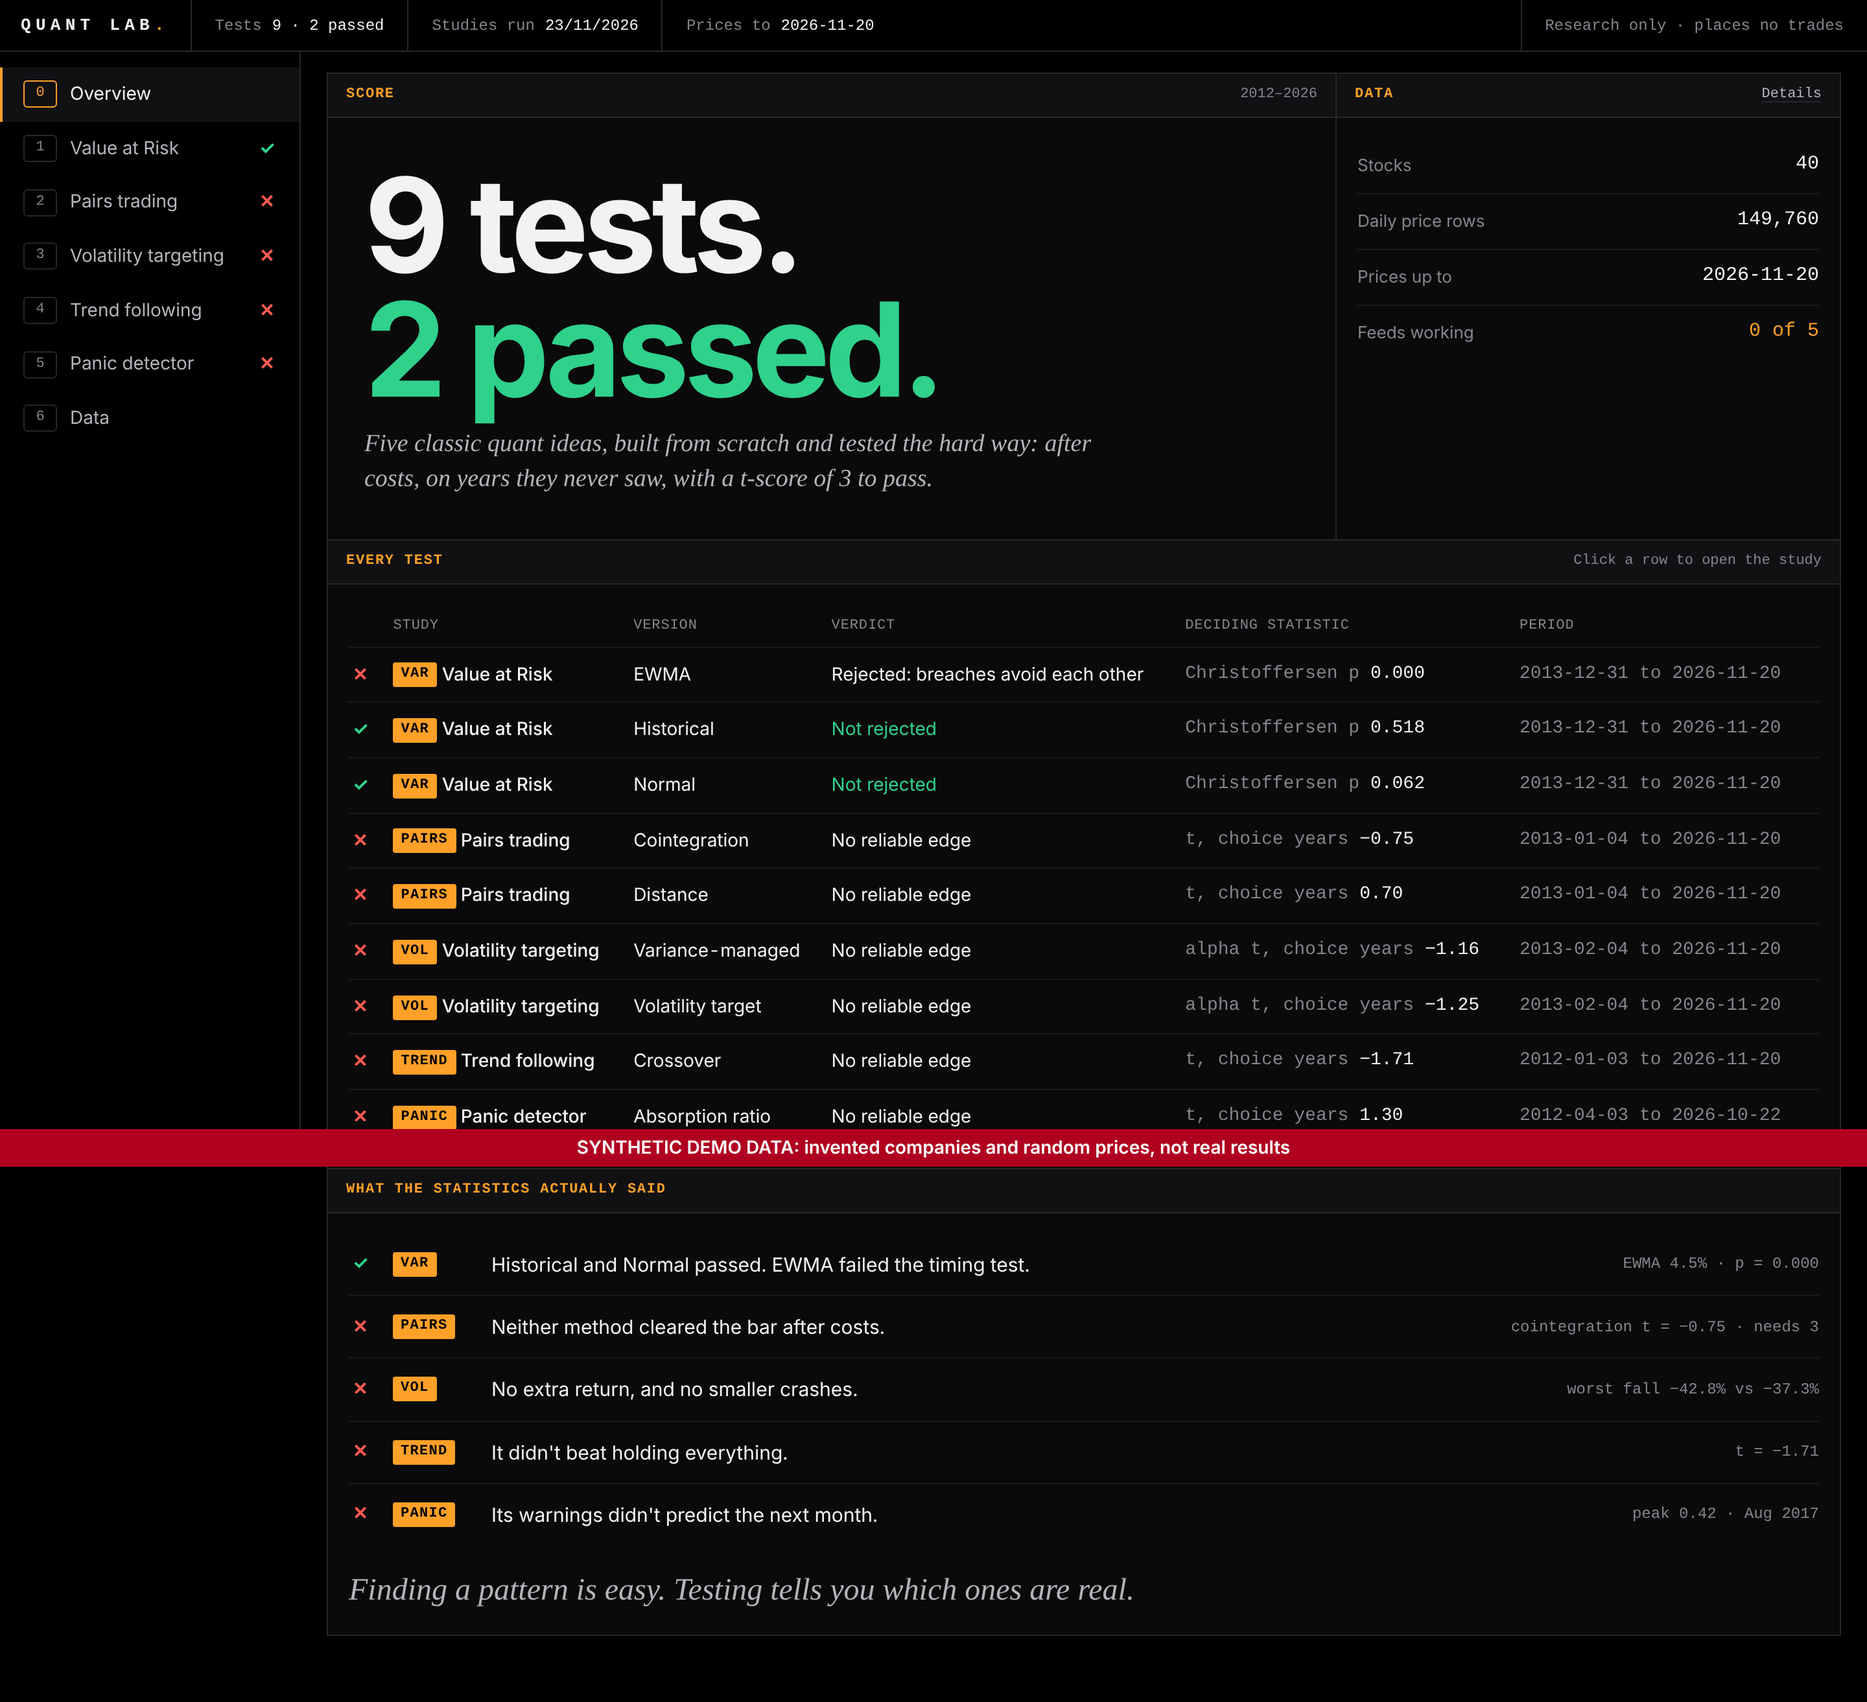
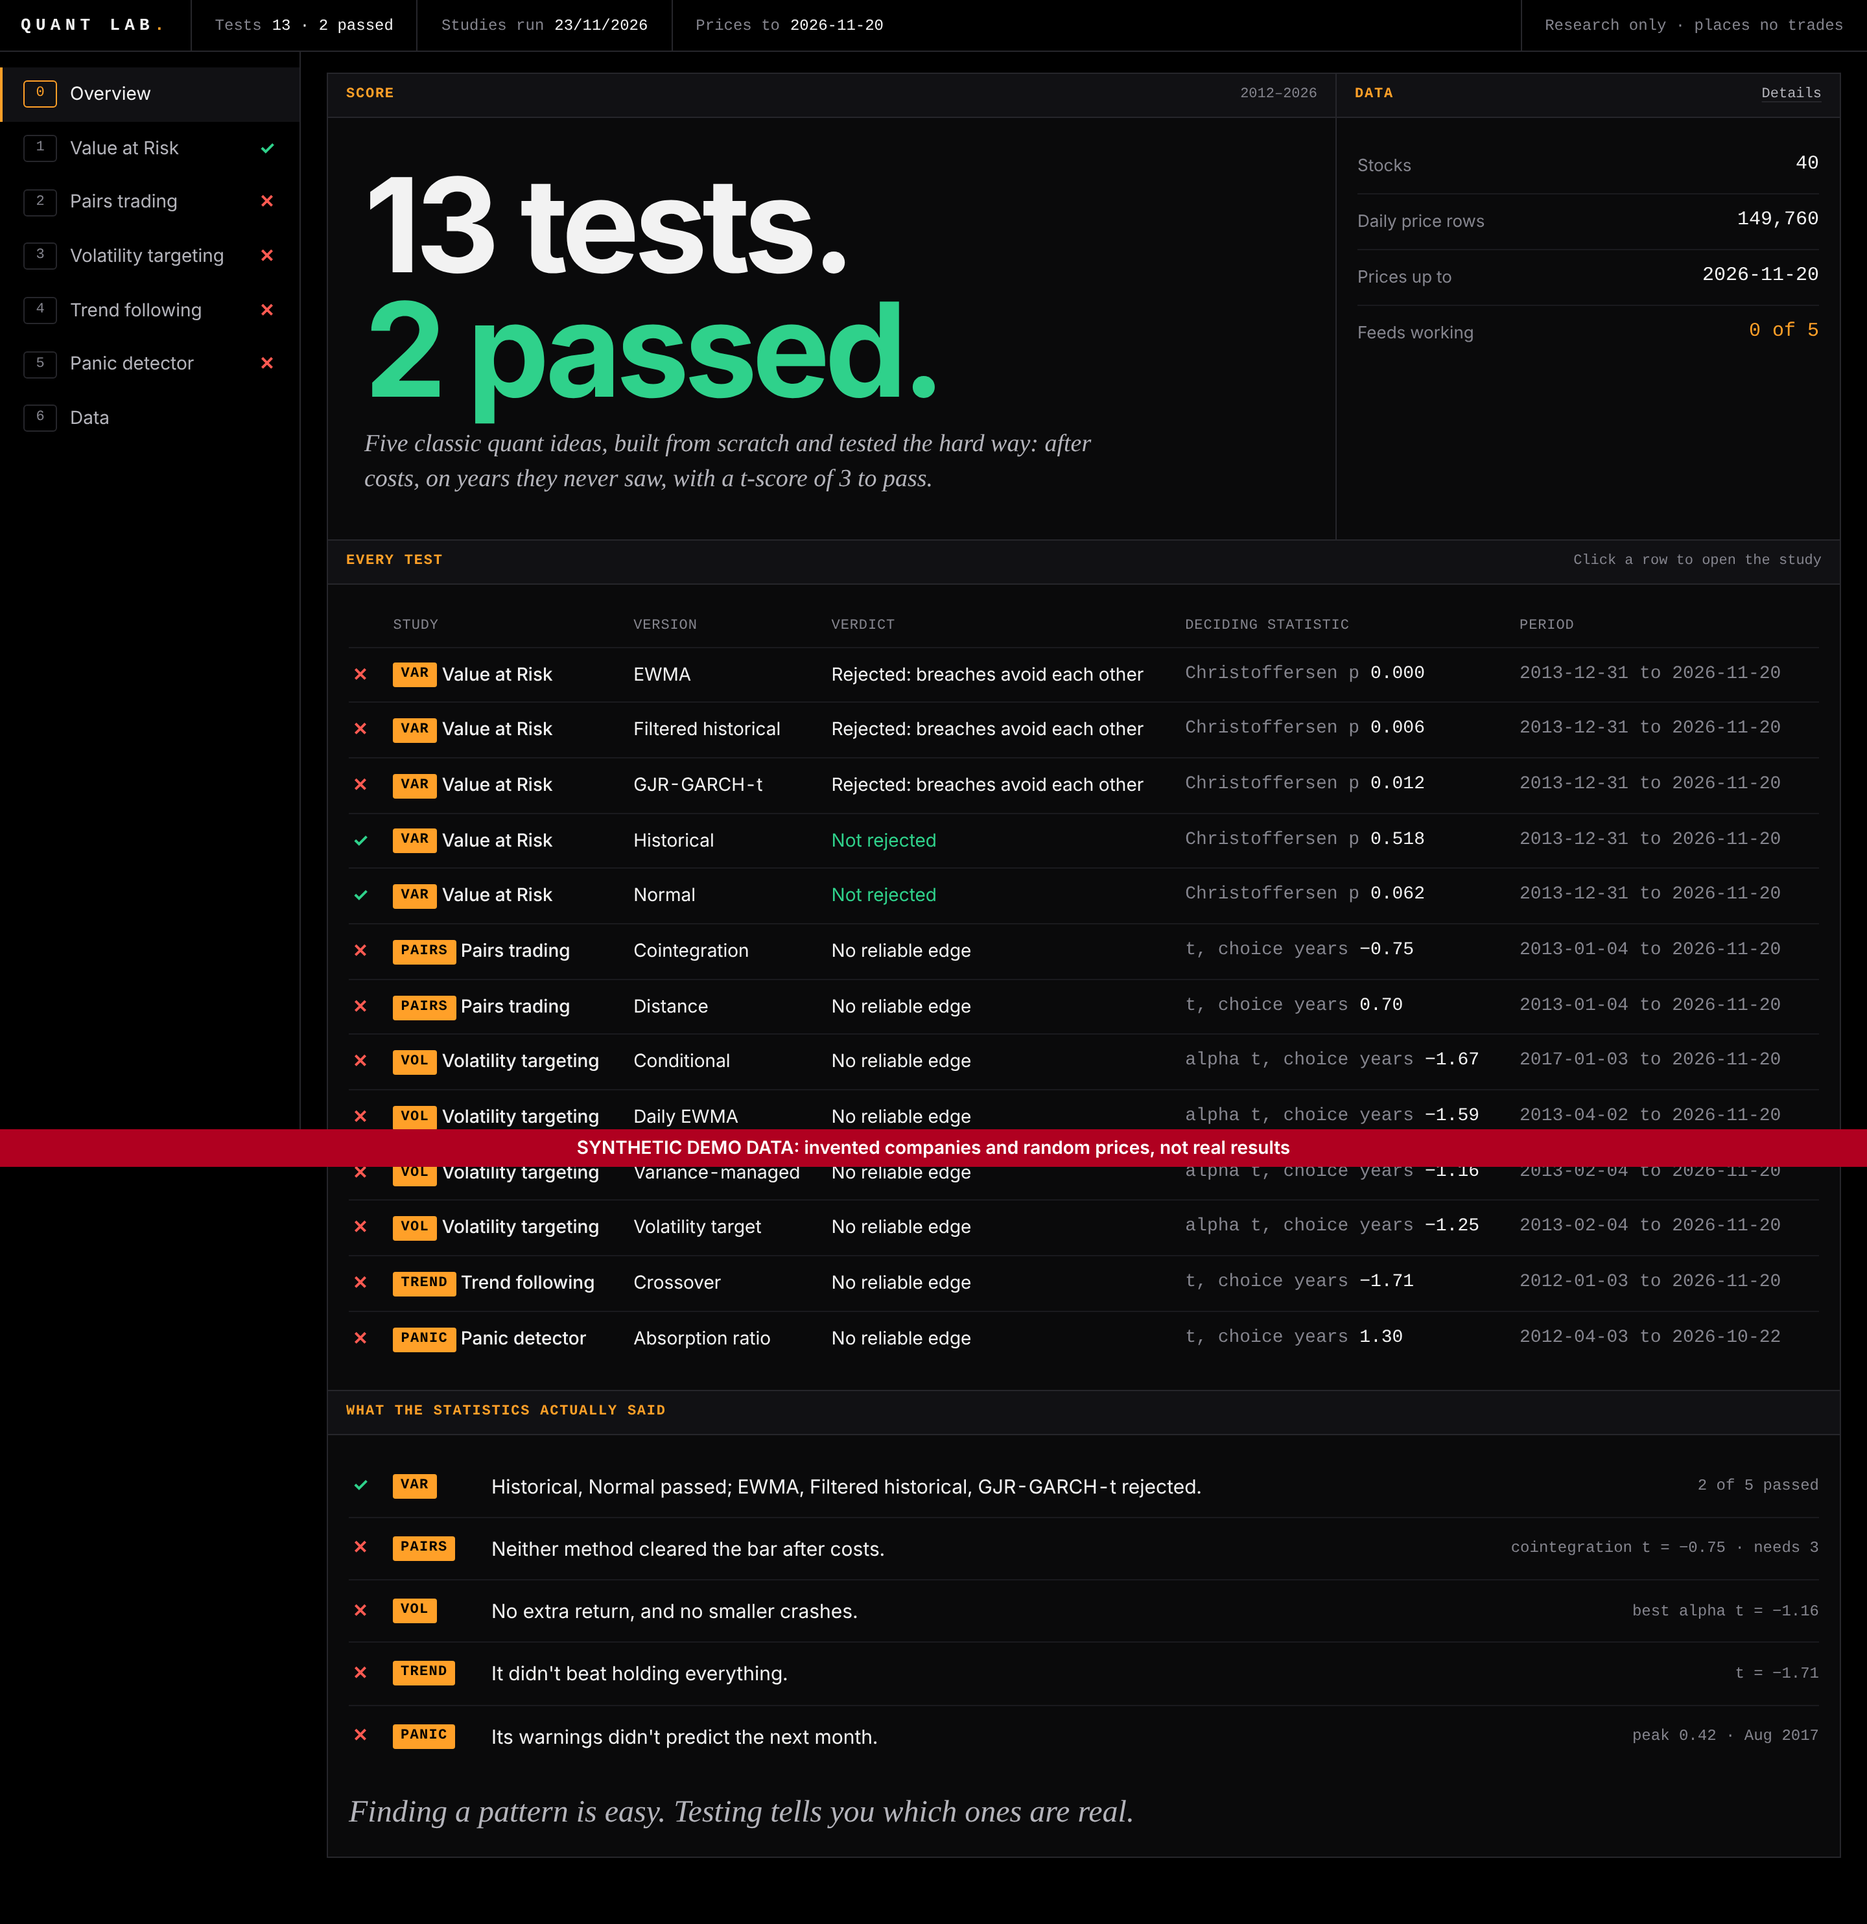
Show the new volatility versions fairly and record their real results
Each volatility version is now ranked and compared against holding the market over its own
years, since warm-ups differ. The write-up and README carry the real results of the four new
versions, with sources on screen.

Claude-Session: https://claude.ai/code/session_01WmkFqFusinndFxNDzseVKi

diff --git a/frontend/src/studies.tsx b/frontend/src/studies.tsx
@@ -37,6 +37,8 @@ export const STUDIES: StudyInfo[] = [
     sources: [
       ["Kupiec (1995), Christoffersen (1998)", "https://it.mathworks.com/help/risk/overview-of-var-backtesting.html"],
       ["RiskMetrics decay 0.94", "https://metricgate.com/docs/ewma-volatility-riskmetrics/"],
+      ["Hull & White (1998)", "https://ideas.repec.org/a/rsk/journ4/2161156.html"],
+      ["Filtered historical simulation review (Bank of England)", "https://www.bankofengland.co.uk/-/media/boe/files/working-paper/2015/filtered-historical-simulation-value-at-risk-models-and-their-competitors.pdf"],
     ],
   },
   {
@@ -55,13 +57,16 @@ export const STUDIES: StudyInfo[] = [
     code: "VOL",
     title: "Volatility targeting",
     tagline: "Hold less when markets are jumpy. Does the risk-adjusted return improve?",
-    tags: ["Stats · realised variance", "Test · alpha, Newey-West"],
+    tags: ["Stats · realised variance, EWMA", "Test · alpha, Newey-West"],
     sources: [
       ["Moreira & Muir (2017)", "https://www.nber.org/papers/w22208"],
       [
         "DeMiguel et al. (2024)",
         "https://lbsresearch.london.edu/id/eprint/3716/1/The%20Journal%20of%20Finance%20-%202024%20-%20DeMIGUEL%20-%20A%20Multifactor%20Perspective%20on%20Volatility%E2%80%90Managed%20Portfolios.pdf",
       ],
+      ["Bongaerts, Kang & van Dijk (2020)", "https://ideas.repec.org/a/taf/ufajxx/v76y2020i4p54-71.html"],
+      ["Harvey et al. (2018)", "https://people.duke.edu/~charvey/Research/Published_Papers/P135_The_impact_of.pdf"],
+      ["Cederburg et al. (2020)", "https://www.lehigh.edu/~xuy219/research/COWY.pdf"],
     ],
   },
   {
@@ -230,19 +235,26 @@ export function view(key: string, rows: Result[]): View | null {
   if (key === "vol_targeting") {
     const managed = VOL_VARIANTS.map((v) => find(rows, v)).filter(Boolean) as Result[];
     const first = managed[0];
-    const bestSharpe = [...managed].sort((x, y) => (strategy(y)?.sharpe ?? -Infinity) - (strategy(x)?.sharpe ?? -Infinity))[0];
-    const shallowest = [...managed].sort((x, y) => (strategy(y)?.max_drawdown ?? -Infinity) - (strategy(x)?.max_drawdown ?? -Infinity))[0];
+    // Versions start on different dates, so each is ranked by its gain over holding the market
+    // during its own years, never by its raw level.
+    const gain = (r: Result, key: "sharpe" | "max_drawdown") => {
+      const a = strategy(r)?.[key];
+      const c = baseline(r)?.[key];
+      return typeof a === "number" && typeof c === "number" ? a - c : -Infinity;
+    };
+    const bestSharpe = [...managed].sort((x, y) => gain(y, "sharpe") - gain(x, "sharpe"))[0];
+    const shallowest = [...managed].sort((x, y) => gain(y, "max_drawdown") - gain(x, "max_drawdown"))[0];
     const bestT = [...managed].sort((x, y) => ((y.metrics.choice_t as number) ?? -Infinity) - ((x.metrics.choice_t as number) ?? -Infinity))[0];
     return {
       tiles: [
         {
           value: `${fixed(strategy(bestSharpe)?.sharpe)} vs ${fixed(baseline(bestSharpe)?.sharpe)}`,
-          label: `best Sharpe ratio: ${bestSharpe ? NAMES[bestSharpe.variant] : NOT_VERIFIED} vs unmanaged`,
+          label: `Sharpe ratio, biggest gain: ${bestSharpe ? NAMES[bestSharpe.variant] : NOT_VERIFIED} vs holding, same years`,
           tone: "blue",
         },
         {
           value: `${pct(strategy(shallowest)?.max_drawdown)} vs ${pct(baseline(shallowest)?.max_drawdown)}`,
-          label: `smallest worst fall: ${shallowest ? NAMES[shallowest.variant] : NOT_VERIFIED} vs unmanaged`,
+          label: `worst fall, biggest cut: ${shallowest ? NAMES[shallowest.variant] : NOT_VERIFIED} vs holding, same years`,
           tone: shallower(shallowest) ? "green" : "red",
         },
         {

diff --git a/frontend/src/explain.tsx b/frontend/src/explain.tsx
@@ -236,7 +236,6 @@ function volTargeting(rows: Result[]): Both {
     ["Conditional", find(rows, "conditional (Bongaerts et al.)")],
     ["Daily EWMA", find(rows, "daily EWMA (Harvey et al.)")],
   ].filter(([, r]) => r) as [string, Result][];
-  const base = versions[0]?.[1];
   const smaller = versions.filter(([, r]) => lower(b(r)?.max_drawdown, s(r)?.max_drawdown)).map(([n]) => n);
   const best = [...versions].sort(([, x], [, y]) => ((m(y, "choice_t") as number) ?? -Infinity) - ((m(x, "choice_t") as number) ?? -Infinity))[0];
   return {
@@ -253,8 +252,7 @@ function volTargeting(rows: Result[]): Both {
           <li><strong>Daily EWMA:</strong> resize every day, giving the most recent days the most weight, so it reacts within days rather than weeks.</li>
         </ul>
         <p>
-          Just holding the market scored {fixed(b(base)?.sharpe)} for return per unit of risk, with a worst fall of{" "}
-          {pct(b(base)?.max_drawdown)}.{" "}
+          Each is compared with just holding the market over the same years.{" "}
           {smaller.length
             ? `${smaller.join(", ")} cut the worst fall.`
             : "None of them cut the worst fall."}{" "}
@@ -284,23 +282,25 @@ function volTargeting(rows: Result[]): Both {
           Test (Moreira & Muir): regress fᵗᵐ = α + β·f + ε, Newey-West t on α. A higher Sharpe alone isn't the test; α is.
         </p>
         <Table
-          head={["Version", "Sharpe ± SE", "Max drawdown", "α t (choice)", "t (hold-out)", "Avg exposure", "Max exposure"]}
-          rows={versions
-            .map(([n, x]) => [
-              n,
-              `${fixed(s(x)?.sharpe)} ± ${fixed(s(x)?.sharpe_se)}`,
-              pct(s(x)?.max_drawdown),
-              fixed(m(x, "choice_t")),
-              fixed(m(x, "holdout_t")),
-              `${fixed(m(x, "average_exposure"))}×`,
-              `${fixed(m(x, "max_exposure"))}×`,
-            ])
-            .concat(base ? [["Unmanaged", `${fixed(b(base)?.sharpe)} ± ${fixed(b(base)?.sharpe_se)}`, pct(b(base)?.max_drawdown), "—", "—", "1.00×", "1.00×"]] : [])}
+          head={["Version", "From", "Sharpe ± SE", "Holding, same years", "Max drawdown", "Holding, same years", "α t (choice)", "t (hold-out)", "Avg / max exposure"]}
+          rows={versions.map(([n, x]) => [
+            n,
+            x.period.slice(0, 4),
+            `${fixed(s(x)?.sharpe)} ± ${fixed(s(x)?.sharpe_se)}`,
+            fixed(b(x)?.sharpe),
+            pct(s(x)?.max_drawdown),
+            pct(b(x)?.max_drawdown),
+            fixed(m(x, "choice_t")),
+            fixed(m(x, "holdout_t")),
+            `${fixed(m(x, "average_exposure"))}× / ${fixed(m(x, "max_exposure"))}×`,
+          ])}
         />
         <p>
-          Reading: drawdown cuts are close to mechanical, because volatility persists and exposure is already low when a
-          sell-off deepens. α needs more: average returns must not rise in step with variance. Periods differ slightly by
-          version, because each needs its own warm-up.
+          {smaller.length
+            ? "Reading: drawdown cuts are close to mechanical, because volatility persists and exposure is already low when a sell-off deepens. "
+            : "Reading: "}
+          α needs more: average returns must not rise in step with variance. Each version is compared with holding over its
+          own years, because each needs a different warm-up.
         </p>
       </>
     ),

diff --git a/docs/QUANT.md b/docs/QUANT.md
@@ -51,6 +51,30 @@ rate ([Moreira & Muir, 2017](https://www.nber.org/papers/w22208)).
 ([DeMiguel et al., 2024](https://lbsresearch.london.edu/id/eprint/3716/1/The%20Journal%20of%20Finance%20-%202024%20-%20DeMIGUEL%20-%20A%20Multifactor%20Perspective%20on%20Volatility%E2%80%90Managed%20Portfolios.pdf)).
 It did cut the worst fall by about 12 points.
 
+**Two improved versions (added 23 November 2026).** Each follows a published method with its
+settings fixed before running, and each counts as a new test under the same rule:
+
+- **Conditional targeting** ([Bongaerts, Kang & van Dijk, 2020](https://ideas.repec.org/a/taf/ufajxx/v76y2020i4p54-71.html)):
+  resize only when last month's volatility is in the top or bottom fifth of all earlier
+  months; otherwise hold the market. The paper asks for 10 years of history; with 16 years of
+  data, 5 years is used, so this version starts in 2015.
+- **Daily EWMA targeting** ([Harvey et al., 2018](https://people.duke.edu/~charvey/Research/Published_Papers/P135_The_impact_of.pdf)):
+  volatility from daily returns with a 20-day half-life, rebalanced daily. Our change: the
+  paper sets its scale on the whole sample, which uses hindsight; here the target is the
+  average of past volatility only, the real-time standard argued for by
+  [Cederburg et al. (2020)](https://www.lehigh.edu/~xuy219/research/COWY.pdf).
+
+| | Conditional (from 2015) | Holding, same years | Daily EWMA (from 2011) | Holding, same years |
+|---|---|---|---|---|
+| Sharpe ratio | 0.84 | 0.85 | 0.96 | 0.93 |
+| Worst fall | −32.4% | −38.8% | −21.8% | −38.8% |
+| Alpha t-score | 0.39 | — | 1.12 | — |
+
+**Neither passes.** Daily EWMA targeting is the strongest version so far: it cut the worst
+fall from −38.8% to −21.8% with a slightly higher Sharpe ratio, but its alpha t-score is 1.12
+against the bar of 3, and its held-back years were slightly negative. Conditional targeting did
+slightly worse than holding over its years.
+
 ### 3. Pairs trading (statistical arbitrage)
 
 - **Setup:** pairs are chosen on 12 months and traded for 6, with top 20 pairs per window,
@@ -93,6 +117,31 @@ arrive in runs, during turbulent spells. The model that weights recent days more
 tests, and its breaches are smaller (an extra 0.68% loss on a breach day, against 0.96%). The
 bunching test raises false alarms about 6% of the time at this sample size rather than 5%;
 the tests check this.
+
+**Two improved models (added 23 November 2026),** with settings fixed before running:
+
+- **Filtered historical simulation** (after [Hull & White, 1998](https://ideas.repec.org/a/rsk/journ4/2161156.html)):
+  each past day's return is divided by the EWMA volatility for that day and multiplied by
+  today's, then drawn at random. It keeps the real shape of bad days without assuming a bell
+  curve.
+- **GJR-GARCH(1,1) with Student-t shocks** (Glosten, Jagannathan & Runkle, 1993): risk reacts
+  more to falls than to rises, and shocks can be extreme. Fitted by maximum likelihood
+  ([`arch`](https://pypi.org/project/arch/) 8.0.0) on the 500 days before each monthly refit;
+  no fit failed to converge.
+
+| Model | Breach rate | Kupiec p | Christoffersen p | Joint p | Breach after a breach | Verdict |
+|---|---|---|---|---|---|---|
+| Filtered historical | 4.9% | 0.80 | 0.022 | 0.069 | 8.9% | Rejected: breaches bunch together |
+| GJR-GARCH-t | 6.5% | < 0.001 | 0.39 | < 0.001 | 7.9% | Rejected: too many breaches |
+
+**Neither passes, but both improve on what they replace.** Filtered historical simulation keeps
+plain historical simulation's accurate count while halving how often one breach follows
+another (8.9% against 16.6%). It fails the separate bunching test narrowly but passes the
+joint test. GJR-GARCH-t has the best timing of all five models and the smallest losses beyond
+the line, but too many breaches. One mechanical reason: at the 95% level, a fat-tailed
+Student-t with the same variance puts its 5% cut-off nearer zero than a bell curve does
+(about −1.59 against −1.64 standard deviations at 6 degrees of freedom), so its line sits
+slightly too shallow. EWMA remains the only model that passes.
 
 ### 5. Market panic detector
 

diff --git a/README.md b/README.md
@@ -92,12 +92,16 @@ From the stored run of 23 November 2026, with details and sources in
 | Study | Verdict | In one line |
 |---|---|---|
 | Trend following (50/200-day) | No reliable edge | Lower Sharpe than holding everything (0.90 vs 1.02), but a smaller worst fall |
-| Volatility targeting | No reliable edge | Same Sharpe (about 0.91), worst fall cut from −38.8% to about −27% |
+| Volatility targeting, monthly (two versions) | No reliable edge | Same Sharpe (about 0.91), worst fall cut from −38.8% to about −27% |
+| Volatility targeting, conditional | No reliable edge | Slightly worse than holding over 2015–2026 |
+| Volatility targeting, daily EWMA | No reliable edge | Best version: worst fall −21.8% against −38.8%, but alpha t only 1.12 |
 | Pairs trading, distance | No reliable edge | Sharpe −0.11 after costs |
 | Pairs trading, cointegration | No reliable edge | Sharpe 0.22 ± 0.25, and a −43.6% fall |
 | Value at Risk, historical | Rejected | Right number of breaches, but they bunch together |
 | Value at Risk, normal | Rejected | Same problem |
 | Value at Risk, EWMA | **Not rejected** | Passes both the breach-rate and bunching tests |
+| Value at Risk, filtered historical | Rejected | Halves back-to-back breaches, but narrowly fails the bunching test |
+| Value at Risk, GJR-GARCH-t | Rejected | Best timing, but too many breaches (6.5%) |
 | Panic detector | No reliable edge | Spots crashes as they happen, but doesn't predict the next month |
 
 ## Limitations

diff --git a/docs/DEMO.md b/docs/DEMO.md
@@ -40,7 +40,7 @@ scratch in Python, then tested them the way a sceptical reviewer would: on years
 designed on, after trading costs, with a t-score of 3 to pass."
 
 **0:12 – 0:25. The score.**
-"The headline is counted from the stored results. On my real data, one of nine tests
+"The headline is counted from the stored results. On my real data, one of thirteen tests
 passed. Every failure is listed here too, because a tool that only shows wins is not
 evidence of anything."
 
